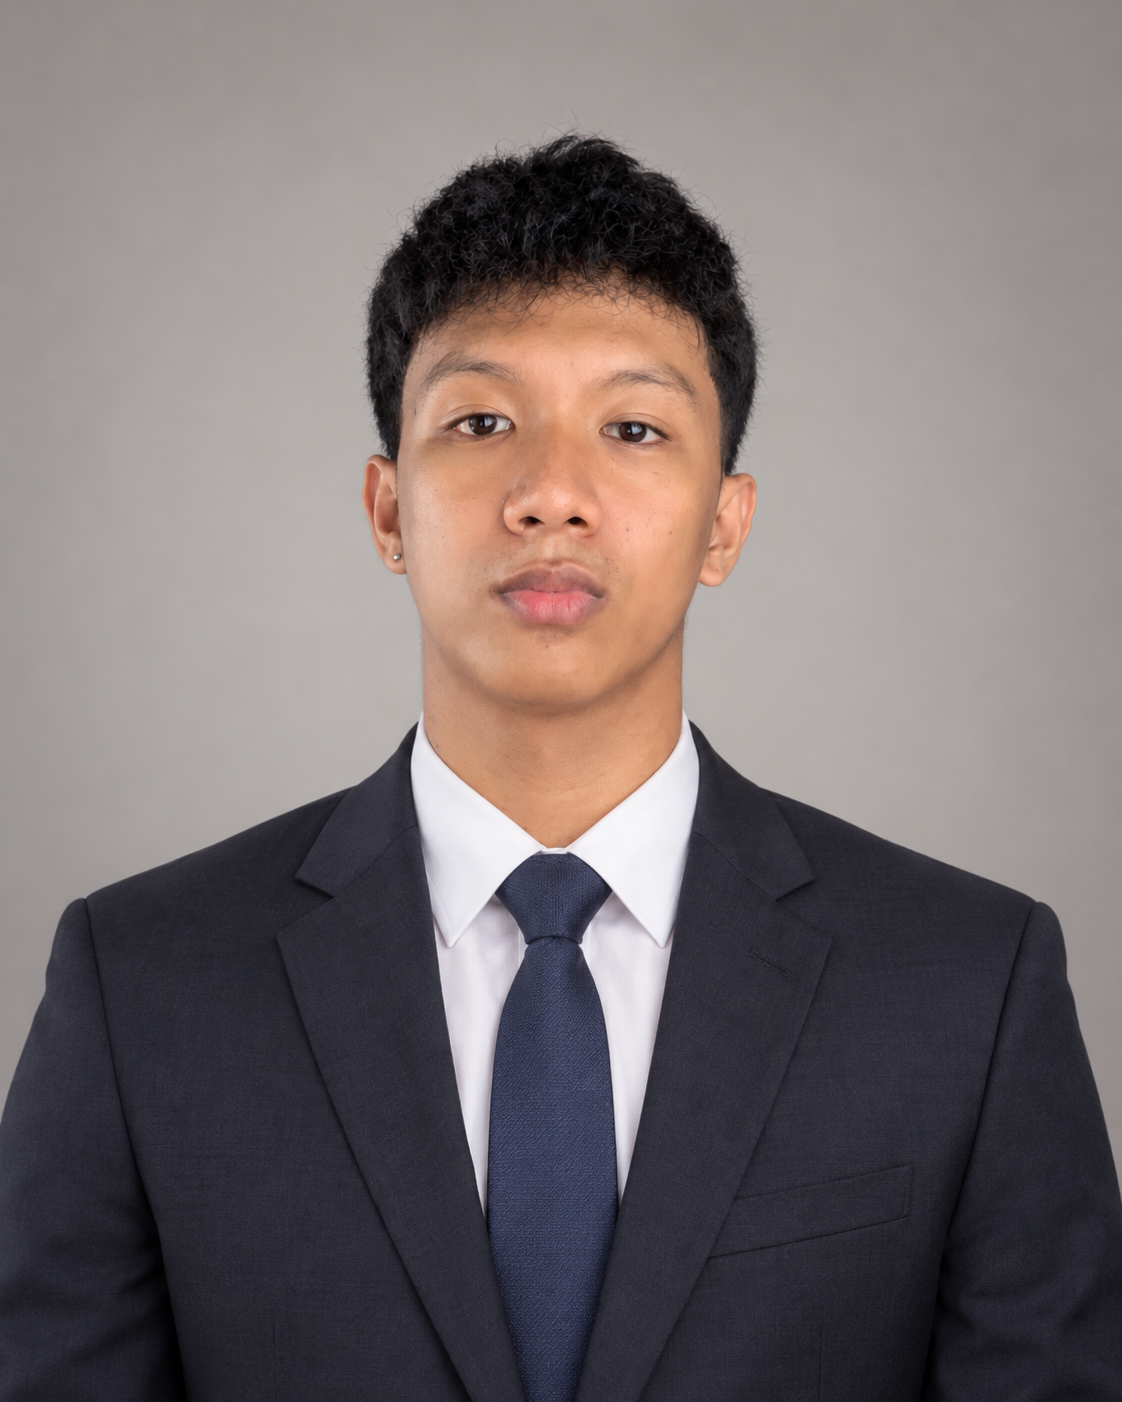
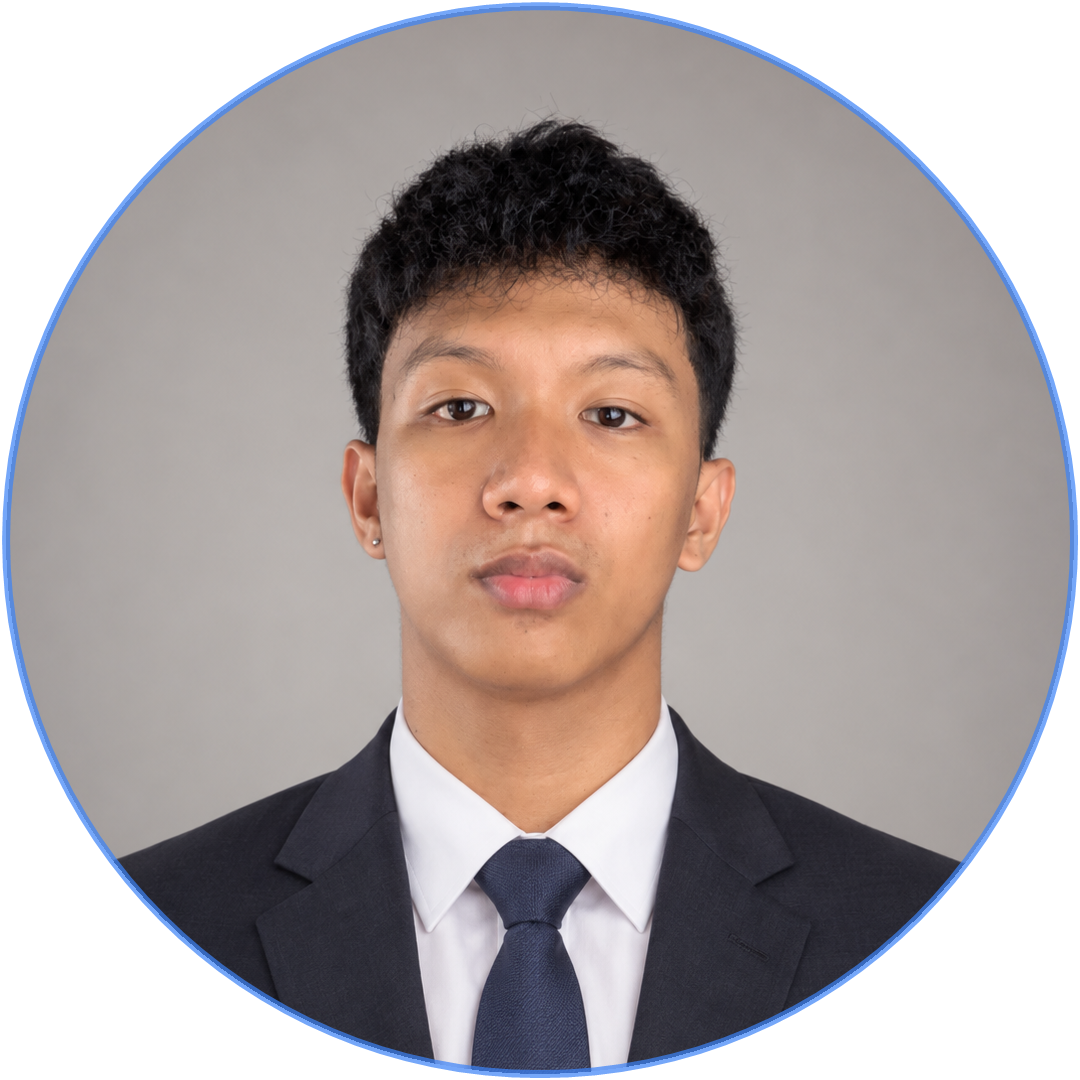
Redesign README with executive layout, photo, and live client links

diff --git a/README.md b/README.md
@@ -1,49 +1,142 @@
 <div align="center">
 
-<img src="assets/hero-banner.svg" alt="John Franklin Bugauisan — Full-Stack Developer & Applied AI Engineer" width="900" />
+<img src="assets/hero-banner.svg" alt="John Franklin Bugauisan — Full-Stack Developer & Applied AI Engineer" width="100%" />
 
-<br/>
+<br/><br/>
 
-<a href="https://franklinbugauisan.sanx.dev/"><img src="https://img.shields.io/badge/Portfolio-F6F6F2?style=for-the-badge&logo=vercel&logoColor=2952FF&labelColor=1F1C18" alt="Portfolio" /></a>
-<a href="https://linkedin.com/in/johnfranklin-bugauisan"><img src="https://img.shields.io/badge/LinkedIn-F6F6F2?style=for-the-badge&logo=linkedin&logoColor=2952FF&labelColor=1F1C18" alt="LinkedIn" /></a>
-<a href="mailto:johnfranklinbugauisan.dev@gmail.com"><img src="https://img.shields.io/badge/Email-F6F6F2?style=for-the-badge&logo=gmail&logoColor=2952FF&labelColor=1F1C18" alt="Email" /></a>
+<a href="https://franklinbugauisan.sanx.dev/">
+  <img src="assets/profile-photo.png" width="160" height="160" alt="John Franklin Bugauisan" />
+</a>
+
+# John Franklin C. Bugauisan
+### Full-Stack Developer &amp; Applied AI Engineer
+
+<p align="center">
+  <b>Incorporator &amp; Lead Developer at <a href="https://franklinbugauisan.sanx.dev/">SanX</a></b> &nbsp;•&nbsp;
+  <b>Backend AI &amp; Prompt Engineer at Flyrank</b> &nbsp;•&nbsp;
+  <b>BS Computer Science (Data Mining)</b>
+</p>
+
+<p align="center">
+  <a href="https://franklinbugauisan.sanx.dev/"><img src="https://img.shields.io/badge/Portfolio-franklinbugauisan.sanx.dev-2563EB?style=for-the-badge&logo=googlechrome&logoColor=white" alt="Portfolio" /></a>
+  <a href="https://linkedin.com/in/johnfranklin-bugauisan"><img src="https://img.shields.io/badge/LinkedIn-Connect-0A66C2?style=for-the-badge&logo=linkedin&logoColor=white" alt="LinkedIn" /></a>
+  <a href="mailto:johnfranklinbugauisan.dev@gmail.com"><img src="https://img.shields.io/badge/Email-Get_In_Touch-EA4335?style=for-the-badge&logo=gmail&logoColor=white" alt="Email" /></a>
+  <a href="https://github.com/ImFrankB"><img src="https://img.shields.io/badge/GitHub-ImFrankB-181717?style=for-the-badge&logo=github&logoColor=white" alt="GitHub" /></a>
+</p>
 
 </div>
 
 <br/>
 
-### <img src="https://api.iconify.design/lucide:terminal.svg?color=%232952FF" width="18" height="18" valign="middle" /> Engineering Identity
+---
+
+### 💻 Engineering Identity
 
 > *A deliberate path from problem to reliable product.*
 
-I build across interfaces, APIs, databases, and applied AI to turn real problems into usable products — favoring proof-driven development and verifiable retrieval pipelines over hype.
+I build across interfaces, APIs, databases, and applied AI to turn complex problems into robust, user-centric products — favoring proof-driven engineering, type safety, and verifiable retrieval pipelines over hype.
 
-* <img src="https://api.iconify.design/lucide:graduation-cap.svg?color=%23726C5F" width="15" height="15" valign="middle" /> **Education:** BS Computer Science (Major in Data Mining), Isabela State University — Main Campus, Echague, Isabela · 2023 – Expected 2027
-* <img src="https://api.iconify.design/lucide:building-2.svg?color=%23726C5F" width="15" height="15" valign="middle" /> **Studio:** Incorporator & Lead Developer at **SanX** — multi-platform products, cloud services, and AI systems
-* <img src="https://api.iconify.design/lucide:briefcase.svg?color=%23726C5F" width="15" height="15" valign="middle" /> **Internship:** Backend AI Engineer & Prompt Engineer at **Flyrank** · June 2026 – Present
-* <img src="https://api.iconify.design/lucide:award.svg?color=%23726C5F" width="15" height="15" valign="middle" /> **Recognition:** 1st Place / Champion, Most Innovative Project — 16th ICT Roadshow, for *CampusTrace*
-* <img src="https://api.iconify.design/lucide:shield.svg?color=%23726C5F" width="15" height="15" valign="middle" /> **Off the keyboard:** Boxing athlete — the same pacing and focus carries over to how I work through a build
+* 🎓 **Education:** BS Computer Science (Major in Data Mining), Isabela State University — Main Campus, Echague · *2023 – Expected 2027*
+* 🏢 **Studio Leadership:** Incorporator & Lead Developer at **SanX** — architecting multi-platform products, cloud backends, and AI systems
+* 💼 **Industry Experience:** Backend AI Engineer & Prompt Engineer at **Flyrank** · *June 2026 – Present*
+* 🏆 **Recognition:** **1st Place / Champion, Most Innovative Project** — 16th ICT Roadshow, for *CampusTrace*
+* 🥊 **Discipline:** Competitive boxing athlete — the endurance, pacing, and focus translate directly to how I tackle complex builds
 
 ---
 
-### <img src="https://api.iconify.design/lucide:cpu.svg?color=%232952FF" width="18" height="18" valign="middle" /> Technical Capabilities
+### 🚀 Featured Products & Platforms
 
 <table>
   <tr>
     <td width="50%" valign="top">
-      <h4><img src="https://api.iconify.design/lucide:layout.svg?color=%232952FF" width="16" height="16" valign="middle" /> Product Interfaces (Web & Mobile)</h4>
-      <p>Responsive, stateful UI built with declarative component trees and clean state management.</p>
+      <h4>🏆 <a href="https://campustrace.site/">CampusTrace</a></h4>
+      <p><b>1st Place Champion — Most Innovative Project (16th ICT Roadshow)</b></p>
+      <p>A multi-tenant web and mobile lost-and-found recovery platform integrating AI visual matching, semantic embeddings, and RAG search to quickly reunite campus communities with lost items.</p>
+      <p>🔗 <b>Live:</b> <a href="https://campustrace.site/">campustrace.site</a></p>
+      <p>
+        <img src="https://img.shields.io/badge/React-20232A?style=flat-square&logo=react&logoColor=61DAFB" alt="React" />
+        <img src="https://img.shields.io/badge/React_Native-20232A?style=flat-square&logo=react&logoColor=61DAFB" alt="React Native" />
+        <img src="https://img.shields.io/badge/FastAPI-009688?style=flat-square&logo=fastapi&logoColor=white" alt="FastAPI" />
+        <img src="https://img.shields.io/badge/Agentic_RAG-FF6B4A?style=flat-square" alt="RAG" />
+      </p>
+    </td>
+    <td width="50%" valign="top">
+      <h4>🧠 <a href="https://learni.site/">Learni</a></h4>
+      <p><b>AI-Powered Adaptive Learning Platform</b></p>
+      <p>Generates tailored learning roadmaps, interactive conceptual quizzes, and performance analytics to transform open-ended subjects into structured, measurable mastery paths.</p>
+      <p>🔗 <b>Live:</b> <a href="https://learni.site/">learni.site</a></p>
+      <p>
+        <img src="https://img.shields.io/badge/Next.js-000000?style=flat-square&logo=nextdotjs&logoColor=white" alt="Next.js" />
+        <img src="https://img.shields.io/badge/React_Native-20232A?style=flat-square&logo=react&logoColor=61DAFB" alt="React Native" />
+        <img src="https://img.shields.io/badge/AI_APIs-2563EB?style=flat-square" alt="AI APIs" />
+        <img src="https://img.shields.io/badge/Analytics-38B2AC?style=flat-square" alt="Analytics" />
+      </p>
+    </td>
+  </tr>
+  <tr>
+    <td width="50%" valign="top">
+      <h4>💳 <a href="https://perako.sanx.dev/">Perako / PerakoPH</a></h4>
+      <p><b>Financial Progressive Web Application</b></p>
+      <p>A personal finance PWA engineered with local-first architecture, background cloud synchronization, conflict resolution, and intelligent transaction categorization.</p>
+      <p>🔗 <b>Live:</b> <a href="https://perako.sanx.dev/">perako.sanx.dev</a> · <a href="https://perako.onrender.com/">Render Mirror</a></p>
+      <p>
+        <img src="https://img.shields.io/badge/PWA-5A0FC8?style=flat-square&logo=pwa&logoColor=white" alt="PWA" />
+        <img src="https://img.shields.io/badge/Offline_Sync-009688?style=flat-square" alt="Offline Sync" />
+        <img src="https://img.shields.io/badge/Supabase-3ECF8E?style=flat-square&logo=supabase&logoColor=white" alt="Supabase" />
+      </p>
+    </td>
+    <td width="50%" valign="top">
+      <h4>📊 <a href="https://marka.sanx.dev/">Marka</a></h4>
+      <p><b>ISU Academic GWA & Evaluation Calculator</b></p>
+      <p>A specialized academic performance tool built for Isabela State University students to calculate, track, and project Grade Weighted Averages with accurate institutional weighting.</p>
+      <p>🔗 <b>Live:</b> <a href="https://marka.sanx.dev/">marka.sanx.dev</a></p>
+      <p>
+        <img src="https://img.shields.io/badge/Web-3B82F6?style=flat-square" alt="Web" />
+        <img src="https://img.shields.io/badge/Client_Compute-10B981?style=flat-square" alt="Client Compute" />
+        <img src="https://img.shields.io/badge/Tailwind_CSS-38B2AC?style=flat-square&logo=tailwind-css&logoColor=white" alt="Tailwind" />
+      </p>
+    </td>
+  </tr>
+</table>
+
+* ⚡ **Remie — AI-Powered Personal Productivity Assistant:** Unified assistant integrating task pipelines, calendar scheduling, expense management, and personal episodic memory with local caching and LLM contextual recall.
+* 🔍 **[Portfolio RAG Assistant](https://franklinbugauisan.sanx.dev/) — Grounded AI Retrieval:** Vector-based RAG chatbot with intent routing and query optimization to answer technical questions regarding my projects and architecture choices.
+
+---
+
+### 🌐 Client Deliveries & Commercial Production
+
+Websites and digital platforms developed and delivered for clients locally and internationally:
+
+#### 🌍 International Client Deliveries
+* 📐 **[Mikemathics](https://mikemathics.com/)** — A modern mathematics and learning portal delivering intuitive educational materials, interactive tools, and clean digital experiences for international students.
+
+#### 🏢 Local Client Deliveries
+* 🎓 **[Odizee School of Achievers](https://www.odizeeschoolofachievers.site/)** — Official responsive web portal and CMS for school admissions, institutional announcements, and community communications.
+* 📈 **[MR14 Trading](https://www.mr14trading.com/)** — Commercial business platform establishing digital presence, services showcase, and client outreach for trading operations.
+
+---
+
+### 🛠 Technical Capabilities
+
+<table>
+  <tr>
+    <td width="50%" valign="top">
+      <h4>📱 Product Interfaces (Web & Mobile)</h4>
+      <p>Responsive, stateful user interfaces built with declarative component hierarchies and smooth interactions.</p>
       <img src="https://img.shields.io/badge/React.js-20232A?style=flat-square&logo=react&logoColor=61DAFB" alt="React" />
       <img src="https://img.shields.io/badge/Next.js-000000?style=flat-square&logo=nextdotjs&logoColor=white" alt="Next.js" />
       <img src="https://img.shields.io/badge/React_Native-20232A?style=flat-square&logo=react&logoColor=61DAFB" alt="React Native" />
+      <img src="https://img.shields.io/badge/TypeScript-3178C6?style=flat-square&logo=typescript&logoColor=white" alt="TypeScript" />
       <img src="https://img.shields.io/badge/Tailwind_CSS-38B2AC?style=flat-square&logo=tailwind-css&logoColor=white" alt="Tailwind CSS" />
       <img src="https://img.shields.io/badge/Framer_Motion-0055FF?style=flat-square&logo=framer&logoColor=white" alt="Framer Motion" />
     </td>
     <td width="50%" valign="top">
-      <h4><img src="https://api.iconify.design/lucide:server.svg?color=%232952FF" width="16" height="16" valign="middle" /> Backend Systems & Data</h4>
-      <p>Layered REST APIs, database modeling, authentication, and offline-first sync.</p>
+      <h4>⚙ Backend Systems & Data</h4>
+      <p>Layered REST APIs, relational and document databases, JWT/OAuth authentication, and offline-first data sync.</p>
       <img src="https://img.shields.io/badge/FastAPI-009688?style=flat-square&logo=fastapi&logoColor=white" alt="FastAPI" />
       <img src="https://img.shields.io/badge/Node.js-339933?style=flat-square&logo=nodedotjs&logoColor=white" alt="Node.js" />
+      <img src="https://img.shields.io/badge/Python-3776AB?style=flat-square&logo=python&logoColor=white" alt="Python" />
       <img src="https://img.shields.io/badge/PostgreSQL-316192?style=flat-square&logo=postgresql&logoColor=white" alt="PostgreSQL" />
       <img src="https://img.shields.io/badge/Supabase-3ECF8E?style=flat-square&logo=supabase&logoColor=white" alt="Supabase" />
       <img src="https://img.shields.io/badge/MySQL-4479A1?style=flat-square&logo=mysql&logoColor=white" alt="MySQL" />
@@ -51,71 +144,41 @@ I build across interfaces, APIs, databases, and applied AI to turn real problems
   </tr>
   <tr>
     <td width="50%" valign="top">
-      <h4><img src="https://api.iconify.design/lucide:bot.svg?color=%232952FF" width="16" height="16" valign="middle" /> Applied AI & Retrieval</h4>
-      <p>Agentic execution, vector search, and RAG pipelines grounded in production data.</p>
-      <img src="https://img.shields.io/badge/Python-3776AB?style=flat-square&logo=python&logoColor=white" alt="Python" />
+      <h4>🤖 Applied AI & Retrieval (RAG)</h4>
+      <p>Agentic workflows, vector search, prompt engineering, and RAG pipelines grounded in real production data.</p>
       <img src="https://img.shields.io/badge/LangChain-1C3C3C?style=flat-square&logo=chainlink&logoColor=white" alt="LangChain" />
       <img src="https://img.shields.io/badge/LangGraph-1C3C3C?style=flat-square&logo=git&logoColor=white" alt="LangGraph" />
       <img src="https://img.shields.io/badge/Agentic_RAG-FF6B4A?style=flat-square&logo=openai&logoColor=white" alt="Agentic RAG" />
-      <img src="https://img.shields.io/badge/Multi--Agent-2952FF?style=flat-square&logo=diagram-next&logoColor=white" alt="Multi-Agent" />
+      <img src="https://img.shields.io/badge/Multi--Agent-2563EB?style=flat-square" alt="Multi-Agent" />
+      <img src="https://img.shields.io/badge/Vector_Search-009688?style=flat-square" alt="Vector Search" />
     </td>
     <td width="50%" valign="top">
-      <h4><img src="https://api.iconify.design/lucide:git-branch.svg?color=%232952FF" width="16" height="16" valign="middle" /> Delivery & Tooling</h4>
-      <p>Version control, continuous verification, and cloud hosting.</p>
+      <h4>🚀 Delivery, DevOps & Cloud</h4>
+      <p>Version control, automated deployments, containerization, and high-availability cloud infrastructure.</p>
       <img src="https://img.shields.io/badge/Git-F05032?style=flat-square&logo=git&logoColor=white" alt="Git" />
       <img src="https://img.shields.io/badge/GitHub-181717?style=flat-square&logo=github&logoColor=white" alt="GitHub" />
       <img src="https://img.shields.io/badge/Vercel-000000?style=flat-square&logo=vercel&logoColor=white" alt="Vercel" />
       <img src="https://img.shields.io/badge/Render-46E3B7?style=flat-square&logo=render&logoColor=black" alt="Render" />
+      <img src="https://img.shields.io/badge/Docker-2496ED?style=flat-square&logo=docker&logoColor=white" alt="Docker" />
     </td>
   </tr>
 </table>
 
 ---
 
-### <img src="https://api.iconify.design/lucide:folder-git-2.svg?color=%232952FF" width="18" height="18" valign="middle" /> Selected Work
+### 📜 Certifications & Accreditations
 
-#### <img src="https://api.iconify.design/lucide:trophy.svg?color=%23FF6B4A" width="16" height="16" valign="middle" /> [CampusTrace](https://franklinbugauisan.sanx.dev/) — University Lost & Found Platform *(2025–2026)*
-* **Problem:** Fragmented lost-and-found reporting across university campuses makes item recovery slow and uncoordinated.
-* **System:** Multi-tenant web and mobile platform combining AI image recognition, semantic matching, and RAG-assisted search to connect lost and found items.
-* **Outcome:** 1st Place / Champion, Most Innovative Project — 16th ICT Roadshow.
-* **Stack:** `React` · `React Native` · `FastAPI` · `RAG` · `AI Image Matching`
-
-#### <img src="https://api.iconify.design/lucide:sparkles.svg?color=%232952FF" width="16" height="16" valign="middle" /> Remie — AI-Powered Personal Productivity Assistant *(2026)*
-* **Problem:** Tasks, reminders, expenses, and calendars usually live in separate apps, breaking a person's workflow.
-* **System:** An assistant that combines task management, reminders, expense tracking, calendar planning, and natural-language personal memory, with offline-first sync and AI-assisted recall.
-
-#### <img src="https://api.iconify.design/lucide:book-open.svg?color=%232952FF" width="16" height="16" valign="middle" /> [Learni](https://franklinbugauisan.sanx.dev/) — AI-Powered Learning Platform *(2025–2026)*
-* **Problem:** Self-directed learners struggle to turn open-ended topics into a structured, measurable study path.
-* **System:** Web and mobile platform that generates personalized roadmaps, quizzes, and progress analytics.
-* **Stack:** `Next.js` · `React Native` · `Analytics` · `AI APIs`
-
-#### <img src="https://api.iconify.design/lucide:search.svg?color=%232952FF" width="16" height="16" valign="middle" /> [Portfolio RAG Chatbot](https://franklinbugauisan.sanx.dev/) — Grounded AI Retrieval *(2025)*
-* **Problem:** A static portfolio takes manual digging to verify specific architecture choices, skills, and project decisions.
-* **System:** RAG chatbot using vector-based semantic search with intent detection, response caching, and cost-optimized retrieval to answer questions about experience and projects.
-* **Stack:** `Python` · `LangChain` · `Vector Search` · `Semantic Retrieval`
-
-#### <img src="https://api.iconify.design/lucide:wallet.svg?color=%232952FF" width="16" height="16" valign="middle" /> [perakoPH](https://franklinbugauisan.sanx.dev/) — Financial Progressive Web App *(2026)*
-* **Problem:** Personal finance apps tend to break down offline, leaving unsynced entries and conflicting balances across devices.
-* **System:** PWA with local-first storage, conflict detection, cloud persistence, retry handling, and AI-assisted transaction entry.
-* **Stack:** `PWA` · `Cloud Persistence` · `Conflict Detection` · `Offline Sync`
-
-<sub>Also delivered: **Odizee School of Achievers** — a responsive institutional website with an integrated CMS for announcements and school information (2025).</sub>
+* 🏅 **Agentic AI with LangChain and LangGraph** — IBM / Coursera
+* 🏅 **Claude Code: Software Engineering with AI Agents** — Vanderbilt University / Coursera
+* 🏅 **AI and Applications** — HUAWEI ICT Academy
+* 🏅 **Design Prompts for Everyday Work Tasks** — Google / Coursera
+* 🏅 **Technical SEO and AI Search Essentials** — Semrush Academy
 
 ---
 
-### <img src="https://api.iconify.design/lucide:badge-check.svg?color=%232952FF" width="18" height="18" valign="middle" /> Certifications
+### ⚙ Engineering Workflow
 
-* Agentic AI with LangChain and LangGraph — IBM / Coursera
-* Claude Code: Software Engineering with AI Agents — Vanderbilt University / Coursera
-* AI and Applications — HUAWEI ICT Academy
-* Design Prompts for Everyday Work Tasks — Google / Coursera
-* Technical SEO and AI Search Essentials — Semrush Academy
-
----
-
-### <img src="https://api.iconify.design/lucide:workflow.svg?color=%232952FF" width="18" height="18" valign="middle" /> Engineering Workflow
-
-```
+```text
 [ 01. DEFINE ]  -->  Establish functional constraints, data flows, and measurable outcomes.
 [ 02. DESIGN ]  -->  Map relational schemas, API endpoints, state models, and component boundaries.
 [ 03. BUILD  ]  -->  Implement modular, type-safe full-stack layers and grounded AI inference paths.
@@ -126,12 +189,12 @@ I build across interfaces, APIs, databases, and applied AI to turn real problems
 
 <div align="center">
 
-<img src="https://github-readme-stats.vercel.app/api?username=ImFrankB&show_icons=true&hide_border=false&bg_color=F6F6F2&title_color=2952FF&text_color=44403A&icon_color=FF6B4A&border_color=E4DDCF" width="48%" alt="Franklin's GitHub Stats" />
-<img src="https://github-readme-stats.vercel.app/api/top-langs/?username=ImFrankB&layout=compact&hide_border=false&bg_color=F6F6F2&title_color=2952FF&text_color=44403A&border_color=E4DDCF" width="48%" alt="Franklin's Top Languages" />
+<a href="https://github.com/ImFrankB">
+  <img src="https://streak-stats.demolab.com/?user=ImFrankB&theme=github-dark-blue&hide_border=true" alt="GitHub Streak" />
+</a>
 
 <br/><br/>
-<sub>Built by <b>John Franklin C. Bugauisan</b> — built with care, clarity, and honest execution.</sub>
-<br/><br/>
-<img src="https://komarev.com/ghpvc/?username=ImFrankB&color=2952ff&style=flat-square" alt="Profile views" />
+
+<sub>Built with precision by <b>John Franklin C. Bugauisan</b></sub>
 
 </div>
